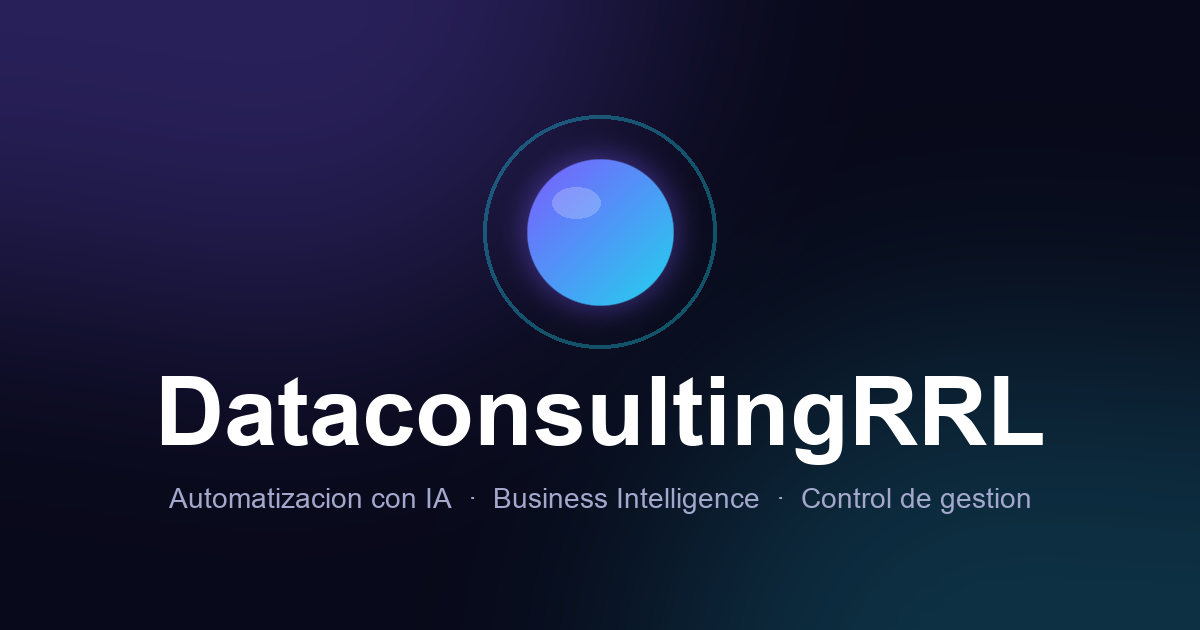
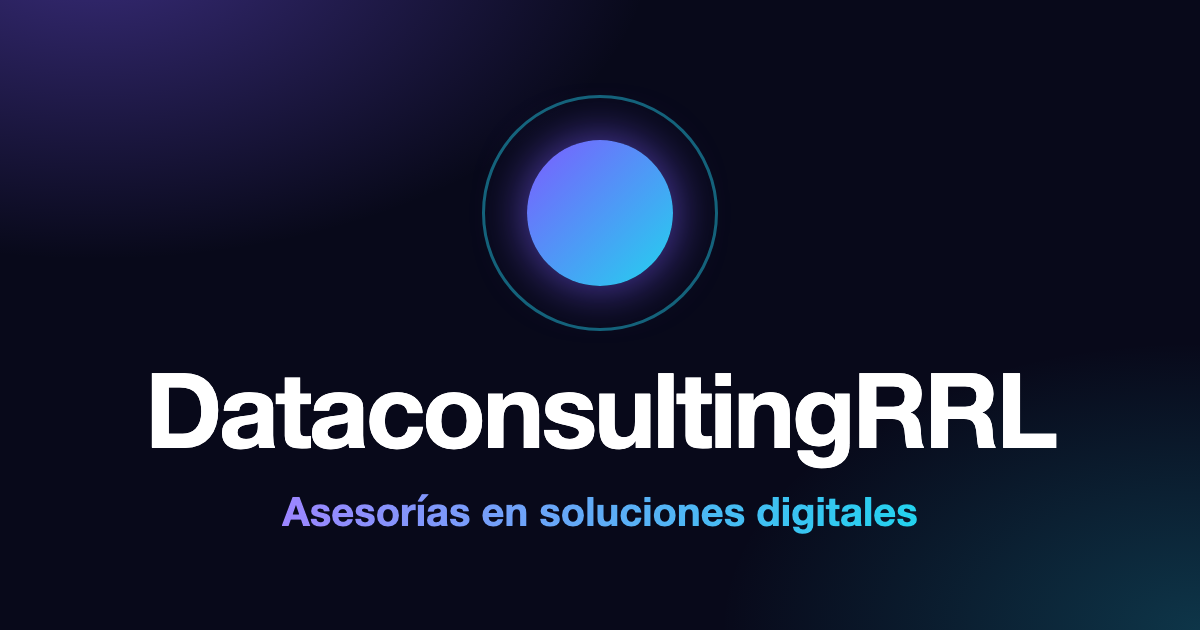
Etiqueta de portada e imagen para compartir con el nuevo posicionamiento

Changed region(s): [[0.0, 0.0, 0.6167, 0.573], [0.1233, 0.573, 0.8942, 1.0]]

diff --git a/index.html b/index.html
@@ -8,13 +8,13 @@
 <meta property="og:title" content="DataconsultingRRL — Asesorías en soluciones digitales">
 <meta property="og:description" content="Ordenamos, automatizamos y digitalizamos tu operación para que tengas control y mejor información para decidir.">
 <meta property="og:type" content="website">
-<meta property="og:image" content="https://dataconsultingrrl.com/assets/og-image.png">
+<meta property="og:image" content="https://dataconsultingrrl.com/assets/og-image.png?v=2">
 <meta property="og:image:width" content="1200">
 <meta property="og:image:height" content="630">
 <meta name="twitter:card" content="summary_large_image">
 <meta name="twitter:title" content="DataconsultingRRL — Asesorías en soluciones digitales">
 <meta name="twitter:description" content="Ordenamos, automatizamos y digitalizamos tu operación para que tengas control y mejor información para decidir.">
-<meta name="twitter:image" content="https://dataconsultingrrl.com/assets/og-image.png">
+<meta name="twitter:image" content="https://dataconsultingrrl.com/assets/og-image.png?v=2">
 <meta name="theme-color" content="#08091a">
 <link rel="icon" href="/favicon.ico" sizes="any">
 <link rel="icon" type="image/png" sizes="32x32" href="/assets/favicon-32.png">
@@ -294,7 +294,7 @@
 
 <div class="hero">
   <div class="env">
-    <span class="chip"><span class="pulso"></span>Inteligencia artificial aplicada al negocio</span>
+    <span class="chip"><span class="pulso"></span>Desarrolladas con inteligencia artificial</span>
     <h1>Asesorías en<br><span class="grad">soluciones digitales.</span></h1>
     <p class="bajada">
       Ordenamos, automatizamos y digitalizamos tu operación para que tengas control y mejor

diff --git a/privacidad.html b/privacidad.html
@@ -9,7 +9,7 @@
 <meta property="og:title" content="Política de Privacidad — DataconsultingRRL">
 <meta property="og:description" content="Cómo tratamos tus datos personales: qué recogemos, para qué, con qué base legal, uso de inteligencia artificial y cómo ejercer tus derechos (Leyes 19.628 y 21.719).">
 <meta property="og:type" content="website">
-<meta property="og:image" content="https://dataconsultingrrl.com/assets/og-image.png">
+<meta property="og:image" content="https://dataconsultingrrl.com/assets/og-image.png?v=2">
 <meta property="og:image:width" content="1200">
 <meta property="og:image:height" content="630">
 <meta property="og:url" content="https://dataconsultingrrl.com/privacidad.html">
@@ -17,7 +17,7 @@
 <meta property="og:site_name" content="DataconsultingRRL">
 <meta name="twitter:card" content="summary_large_image">
 <meta name="twitter:title" content="Política de Privacidad — DataconsultingRRL">
-<meta name="twitter:image" content="https://dataconsultingrrl.com/assets/og-image.png">
+<meta name="twitter:image" content="https://dataconsultingrrl.com/assets/og-image.png?v=2">
 <link rel="icon" href="/favicon.ico" sizes="any">
 <link rel="icon" type="image/png" sizes="32x32" href="/assets/favicon-32.png">
 <link rel="icon" type="image/png" sizes="16x16" href="/assets/favicon-16.png">

diff --git a/diagnostico.html b/diagnostico.html
@@ -8,13 +8,13 @@
 <meta property="og:title" content="Pre-diagnóstico en línea — DataconsultingRRL">
 <meta property="og:description" content="Estime la complejidad y la duración de su proyecto de automatización, dashboard o digitalización en menos de cinco minutos.">
 <meta property="og:type" content="website">
-<meta property="og:image" content="https://dataconsultingrrl.com/assets/og-image.png">
+<meta property="og:image" content="https://dataconsultingrrl.com/assets/og-image.png?v=2">
 <meta property="og:image:width" content="1200">
 <meta property="og:image:height" content="630">
 <meta name="twitter:card" content="summary_large_image">
 <meta name="twitter:title" content="Pre-diagnóstico en línea — DataconsultingRRL">
 <meta name="twitter:description" content="Estime la complejidad y la duración de su proyecto de automatización, dashboard o digitalización en menos de cinco minutos.">
-<meta name="twitter:image" content="https://dataconsultingrrl.com/assets/og-image.png">
+<meta name="twitter:image" content="https://dataconsultingrrl.com/assets/og-image.png?v=2">
 <link rel="icon" href="/favicon.ico" sizes="any">
 <link rel="icon" type="image/png" sizes="32x32" href="/assets/favicon-32.png">
 <link rel="icon" type="image/png" sizes="16x16" href="/assets/favicon-16.png">

diff --git a/terminos.html b/terminos.html
@@ -8,7 +8,7 @@
 <meta property="og:title" content="Términos de Uso — DataconsultingRRL">
 <meta property="og:description" content="Términos de uso del sitio de DataconsultingRRL: alcance del pre-diagnóstico, cómo se fijan los precios y condiciones generales.">
 <meta property="og:type" content="website">
-<meta property="og:image" content="https://dataconsultingrrl.com/assets/og-image.png">
+<meta property="og:image" content="https://dataconsultingrrl.com/assets/og-image.png?v=2">
 <meta property="og:image:width" content="1200">
 <meta property="og:image:height" content="630">
 <meta property="og:url" content="https://dataconsultingrrl.com/terminos.html">
@@ -16,7 +16,7 @@
 <meta property="og:site_name" content="DataconsultingRRL">
 <meta name="twitter:card" content="summary_large_image">
 <meta name="twitter:title" content="Términos de Uso — DataconsultingRRL">
-<meta name="twitter:image" content="https://dataconsultingrrl.com/assets/og-image.png">
+<meta name="twitter:image" content="https://dataconsultingrrl.com/assets/og-image.png?v=2">
 <link rel="icon" href="/favicon.ico" sizes="any">
 <link rel="icon" type="image/png" sizes="32x32" href="/assets/favicon-32.png">
 <link rel="icon" type="image/png" sizes="16x16" href="/assets/favicon-16.png">
